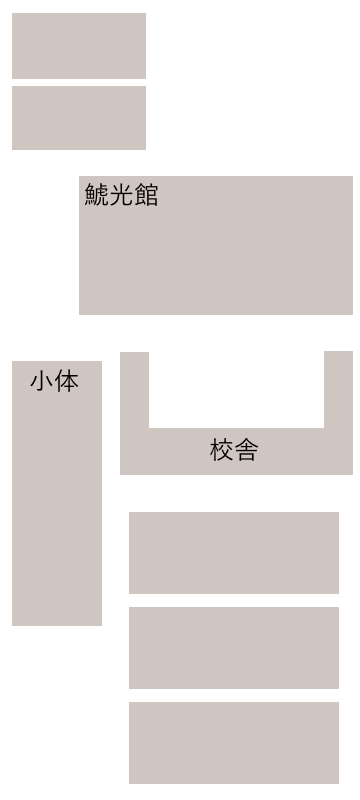
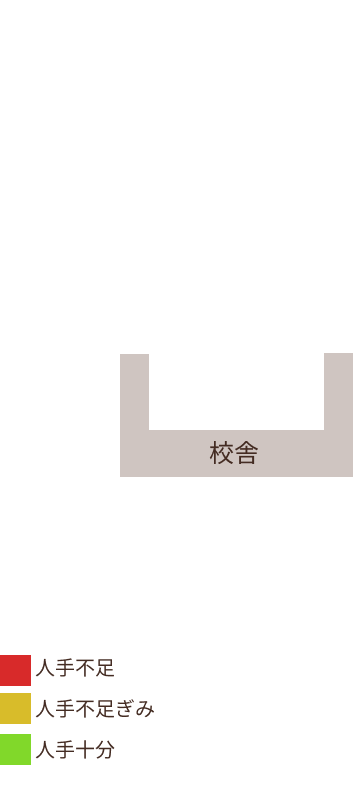
人手確認画面 [add]

diff --git a/lib/widgets/dashboard_widget.dart b/lib/widgets/dashboard_widget.dart
@@ -1,5 +1,6 @@
 import 'package:flutter/material.dart';
 import 'package:cloud_firestore/cloud_firestore.dart';
+import 'package:rumutai_app/screens/staff/my_place_game_screen.dart';
 import '/providers/local_data.dart';
 import 'package:provider/provider.dart';
 import "/providers/dashboard_data.dart";
@@ -35,27 +36,26 @@ class _DashboardState extends State<DashboardWidget> {
   }
 
   Future<void> ChangeButtonColor() async {
-    var globalData =
-        await FirebaseFirestore.instance.collection("StaffDashboard").get();
-    var d = globalData.docs[0].data();
+    var globalData = await FirebaseFirestore.instance
+        .collection("StaffDashboard")
+        .doc(staffPlace)
+        .get();
+    int currentStaffs = globalData.get("staffs");
 
     if (staffPlace == "本部") {
-      if (d[staffPlace] > 8) {
+      if (currentStaffs > 8) {
         signColor = Colors.green;
-      } else if (d[staffPlace] > 5) {
+      } else if (currentStaffs > 5) {
         signColor = Colors.yellow;
       } else {
         signColor = Colors.red;
       }
     } else {
-      if (d[staffPlace] > 0) {
+      if (currentStaffs > 0) {
         signColor = Colors.green;
       } else {
         signColor = Colors.red;
       }
-    }
-    if ((localPlace != staffPlace) && (localPlace != "None")) {
-      signColor = Colors.grey;
     }
     setState(() {
       isloading = false;
@@ -77,11 +77,7 @@ class _DashboardState extends State<DashboardWidget> {
           insetPadding: const EdgeInsets.all(10),
           title: const Text("確認"),
           content: SizedBox(
-              height: 50,
-              width: 200,
-              child: dialogIsLoading
-                  ? const Center(child: CircularProgressIndicator())
-                  : Text("$staffPlace　のスタッフを担当します")),
+              height: 50, width: 200, child: Text("$staffPlace　のスタッフを担当します")),
           actionsAlignment: MainAxisAlignment.center,
           actions: <Widget>[
             if (!dialogIsLoading)
@@ -111,97 +107,102 @@ class _DashboardState extends State<DashboardWidget> {
                     onPressed: () async {
                       await LocalData.saveLocalData<String>(
                           "staffPlace", staffPlace);
-                      var globalData = await FirebaseFirestore.instance
+
+                      var d = await FirebaseFirestore.instance
                           .collection("StaffDashboard")
+                          .doc(staffPlace)
                           .get();
-                      var d = globalData.docs[0].data();
-                      var data = {staffPlace: d[staffPlace] + 1};
+                      var data = {"staffs": d.get("staffs") + 1};
                       await FirebaseFirestore.instance
                           .collection('StaffDashboard')
-                          .doc("Place")
+                          .doc(staffPlace)
                           .set(data, SetOptions(merge: true));
-                      setState(() {
-                        LoadPlace();
-                        ChangeButtonColor();
-                      });
 
-                      Provider.of<DashboardNotifier>(context, listen: false)
-                          .updateDashboard();
+                      Navigator.pop(context);
+
+                      showDialog(
+                          barrierDismissible: false,
+                          context: context,
+                          builder: (_) {
+                            return _dialogOut(staffPlace: staffPlace);
+                          });
                       Navigator.of(context).pushNamed(
-                          '/dashboard-detail-screen',
+                          MyPlaceGameScreen.routeName,
                           arguments: staffPlace);
                     }),
-              ),
+              )
           ],
         );
       },
     );
   }
 
-  static Widget _dialogOut({required String staffPlace}) {
+  Widget _dialogOut({required String staffPlace}) {
     bool dialogIsLoading = false;
     return StatefulBuilder(
       builder: (context, setStateInDialog) {
-        return AlertDialog(
-          insetPadding: const EdgeInsets.all(10),
-          title: const Text("確認"),
-          content: SizedBox(
-              height: 50,
-              width: 200,
-              child: dialogIsLoading
-                  ? const Center(child: CircularProgressIndicator())
-                  : Text("$staffPlace　のスタッフを外れます")),
-          actionsAlignment: MainAxisAlignment.center,
-          actions: <Widget>[
-            if (!dialogIsLoading)
-              SizedBox(
-                width: 140,
-                height: 40,
-                child: OutlinedButton(
-                  style:
-                      OutlinedButton.styleFrom(foregroundColor: Colors.black),
-                  onPressed: () => Navigator.pop(context),
-                  child: const Text("キャンセル"),
-                ),
-              ),
-            if (!dialogIsLoading)
-              SizedBox(
-                width: 140,
-                height: 40,
-                child: FilledButton(
-                    style: ButtonStyle(
-                      shape: MaterialStateProperty.all<RoundedRectangleBorder>(
-                        RoundedRectangleBorder(
-                          borderRadius: BorderRadius.circular(5),
-                        ),
-                      ),
+        return WillPopScope(
+            onWillPop: () async => false,
+            child: AlertDialog(
+              insetPadding: const EdgeInsets.all(10),
+              title: const Text("確認"),
+              content: SizedBox(
+                  height: 50, width: 200, child: Text("$staffPlace　の担当を外れます")),
+              actionsAlignment: MainAxisAlignment.center,
+              actions: <Widget>[
+                if (!dialogIsLoading)
+                  SizedBox(
+                    width: 140,
+                    height: 40,
+                    child: OutlinedButton(
+                      style: OutlinedButton.styleFrom(
+                          foregroundColor: Colors.black),
+                      onPressed: () {
+                        Navigator.of(context).pushNamed(
+                            MyPlaceGameScreen.routeName,
+                            arguments: staffPlace);
+                      },
+                      child: const Text("キャンセル"),
                     ),
-                    child: const Text("確認"),
-                    onPressed: () async {
-                      LocalData.saveLocalData<String>("staffPlace", "None");
-                      var globalData = await FirebaseFirestore.instance
-                          .collection("StaffDashboard")
-                          .get();
-                      var d = globalData.docs[0].data();
-                      var data = {staffPlace: d[staffPlace] - 1};
-                      await FirebaseFirestore.instance
-                          .collection('StaffDashboard')
-                          .doc("Place")
-                          .set(data, SetOptions(merge: true));
-                      Provider.of<DashboardNotifier>(context, listen: false)
-                          .updateDashboard();
-                      Navigator.of(context).pushNamed('/home-screen');
-                    }),
-              ),
-          ],
-        );
+                  ),
+                if (!dialogIsLoading)
+                  SizedBox(
+                    width: 140,
+                    height: 40,
+                    child: FilledButton(
+                        style: ButtonStyle(
+                          shape:
+                              MaterialStateProperty.all<RoundedRectangleBorder>(
+                            RoundedRectangleBorder(
+                              borderRadius: BorderRadius.circular(5),
+                            ),
+                          ),
+                        ),
+                        child: const Text("確認"),
+                        onPressed: () async {
+                          LocalData.saveLocalData<String>("staffPlace", "None");
+                          var d = await FirebaseFirestore.instance
+                              .collection("StaffDashboard")
+                              .doc(staffPlace)
+                              .get();
+                          var data = {"staffs": d.get("staffs") - 1};
+                          if (d.get("staffs") >= 1) {
+                            await FirebaseFirestore.instance
+                                .collection('StaffDashboard')
+                                .doc(staffPlace)
+                                .set(data, SetOptions(merge: true));
+                          }
+                          Navigator.pop(context);
+                        }),
+                  )
+              ],
+            ));
       },
     );
   }
 
   @override
   Widget build(BuildContext context) {
-    print("built");
     return Consumer<DashboardNotifier>(
         builder: (context, dashboardNotifier, child) {
       // 必要に応じて状態を更新する
@@ -215,33 +216,36 @@ class _DashboardState extends State<DashboardWidget> {
       if (isloading) {
         return const Center(child: CircularProgressIndicator());
       } else {
-        return Align(
-            alignment: Alignment(x, y),
-            child: TextButton(
-                onPressed: (localPlace == "None" || localPlace == staffPlace)
-                    ? () {
-                        if (localPlace == "None") {
-                          showDialog(
-                            context: context,
-                            builder: (_) {
-                              return _dialogIn(staffPlace: staffPlace);
-                            },
-                          );
-                        } else {
-                          showDialog(
-                            context: context,
-                            builder: (_) {
-                              return _dialogOut(staffPlace: staffPlace);
-                            },
-                          );
-                        }
-                      }
-                    : null,
-                child: Text(
-                  (staffPlace == localPlace) ? "$staffPlace(担当中)" : staffPlace,
-                  style: TextStyle(color: signColor, fontSize: 20),
-                )));
+        if (localPlace == staffPlace) {
+          print("dialog_out");
+          return _dialogOut(staffPlace: staffPlace);
+        }
+        ;
       }
+      return Align(
+          alignment: Alignment(x, y),
+          child: ElevatedButton(
+            onPressed: () {
+              if (localPlace == "None") {
+                showDialog(
+                    context: context,
+                    builder: (_) {
+                      return _dialogIn(staffPlace: staffPlace);
+                    });
+              } else if (localPlace == staffPlace) {
+                showDialog(
+                    context: context,
+                    builder: (_) {
+                      return _dialogOut(staffPlace: staffPlace);
+                    });
+              } else {
+                null;
+              }
+            },
+            child: Text(
+                (staffPlace == localPlace) ? "$staffPlace(担当中)" : staffPlace),
+            style: ElevatedButton.styleFrom(backgroundColor: signColor),
+          ));
     });
   }
 }

diff --git a/lib/screens/staff/dashboard_screen.dart b/lib/screens/staff/dashboard_screen.dart
@@ -1,52 +1,22 @@
 import 'package:flutter/material.dart';
 import 'package:rumutai_app/widgets/dashboard_widget.dart';
 
-class DashboardScreen extends StatelessWidget {
+class DashboardScreen extends StatefulWidget {
+  const DashboardScreen({super.key});
+
   static const routeName = "/dashboard-screen";
 
-  DashboardScreen({
-    super.key,
-  });
+  @override
+  State<DashboardScreen> createState() => _DashboardScreenState();
+}
 
+class _DashboardScreenState extends State<DashboardScreen> {
   final _viewTransformationController = TransformationController();
-
-  void _setMapToView(String? place) {
-    if (place == null) {
-      return;
-    }
-    late double zoomFactor;
-    late double xTranslate;
-    late double yTranslate;
-    if (place.contains("運動場")) {
-      zoomFactor = 2.3;
-      xTranslate = 395.0;
-      yTranslate = 540.0;
-    } else if (place.contains("鯱光館")) {
-      zoomFactor = 2.4;
-      xTranslate = 380.0;
-      yTranslate = 300.0;
-    } else if (place.contains("外バレ")) {
-      zoomFactor = 3.0;
-      xTranslate = 450.0;
-      yTranslate = 380.0;
-    } else if (place.contains("小体育館")) {
-      zoomFactor = 3.0;
-      xTranslate = 0.0;
-      yTranslate = 700.0;
-    } else {
-      return;
-    }
-    _viewTransformationController.value.setEntry(0, 0, zoomFactor);
-    _viewTransformationController.value.setEntry(1, 1, zoomFactor);
-    _viewTransformationController.value.setEntry(2, 2, zoomFactor);
-    _viewTransformationController.value.setEntry(0, 3, -xTranslate);
-    _viewTransformationController.value.setEntry(1, 3, -yTranslate);
-  }
 
   @override
   Widget build(BuildContext context) {
     return Scaffold(
-        appBar: AppBar(title: const Text("ダッシュボード")),
+        appBar: AppBar(title: const Text("人手確認")),
         body: Stack(children: [
           Center(
             child: InteractiveViewer(
@@ -57,7 +27,17 @@ class DashboardScreen extends StatelessWidget {
           ),
           DashboardWidget("外バレーコート北", -0.6, -0.95),
           DashboardWidget("外バレーコート南", -0.6, -0.80),
-          DashboardWidget("鯱光館東", 0.3, -0.25),
+          DashboardWidget("本部", 0.3, -0.25),
+          DashboardWidget("鯱光館東", 0.6, -0.55),
+          DashboardWidget("鯱光館西", 0, -0.55),
+          DashboardWidget("小体育館", -0.8, -0.3),
+          DashboardWidget("小体育館Ⅰ", -0.8, -0.15),
+          DashboardWidget("小体育館Ⅱ", -0.8, 0),
+          DashboardWidget("小体育館Ⅲ", -0.8, 0.15),
+          DashboardWidget("ハンドボールコート", -0.8, 0.4),
+          DashboardWidget("運動場A", 0.3, 0.4),
+          DashboardWidget("運動場B", 0.3, 0.6),
+          DashboardWidget("運動場C", 0.3, 0.8),
         ]));
   }
 }

diff --git a/lib/main.dart b/lib/main.dart
@@ -1,6 +1,7 @@
 import 'package:flutter/cupertino.dart';
 import 'package:flutter/material.dart';
 import 'package:provider/provider.dart';
+import 'package:rumutai_app/screens/staff/my_place_game_screen.dart';
 import 'package:timezone/timezone.dart' as tz;
 import 'package:timezone/data/latest_all.dart' as tz;
 
@@ -181,6 +182,7 @@ class MyApp extends StatelessWidget {
           MakeOmikujiScreen.routeName: (ctx) => const MakeOmikujiScreen(),
           TimelineScreen.routeName: (ctx) => const TimelineScreen(),
           DashboardScreen.routeName: (ctx) => DashboardScreen(),
+          MyPlaceGameScreen.routeName: (ctx) => const MyPlaceGameScreen(),
 
           //PredictScreen.routeName: (ctx) => const PredictScreen(),
         },

diff --git a/lib/screens/home_screen.dart b/lib/screens/home_screen.dart
@@ -396,7 +396,7 @@ class _HomeScreenState extends State<HomeScreen> {
                         ),
                         const SizedBox(height: 15),
                         _tonalButton(
-                          text: "ダッシュボード",
+                          text: "人手確認",
                           icon: Icons.map,
                           width: buttonWidth,
                           onPressed: () => Navigator.of(context)
